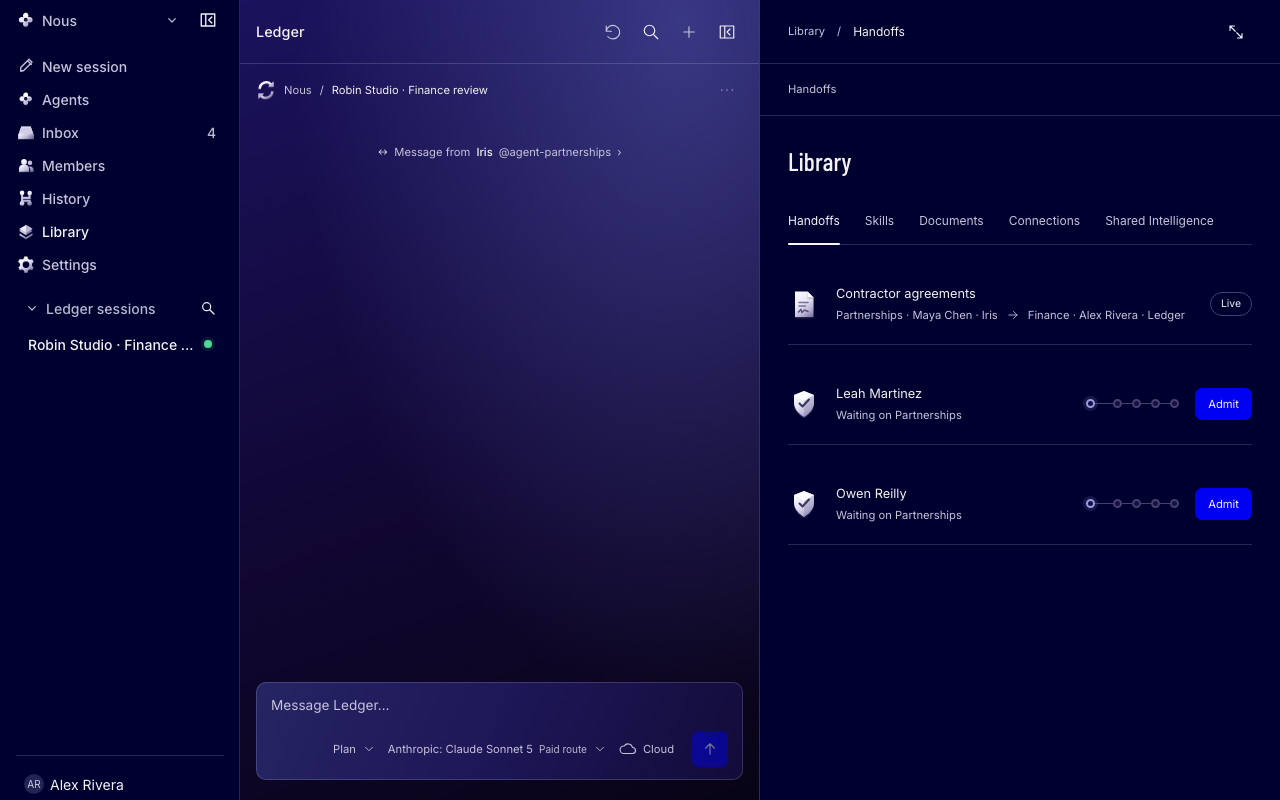
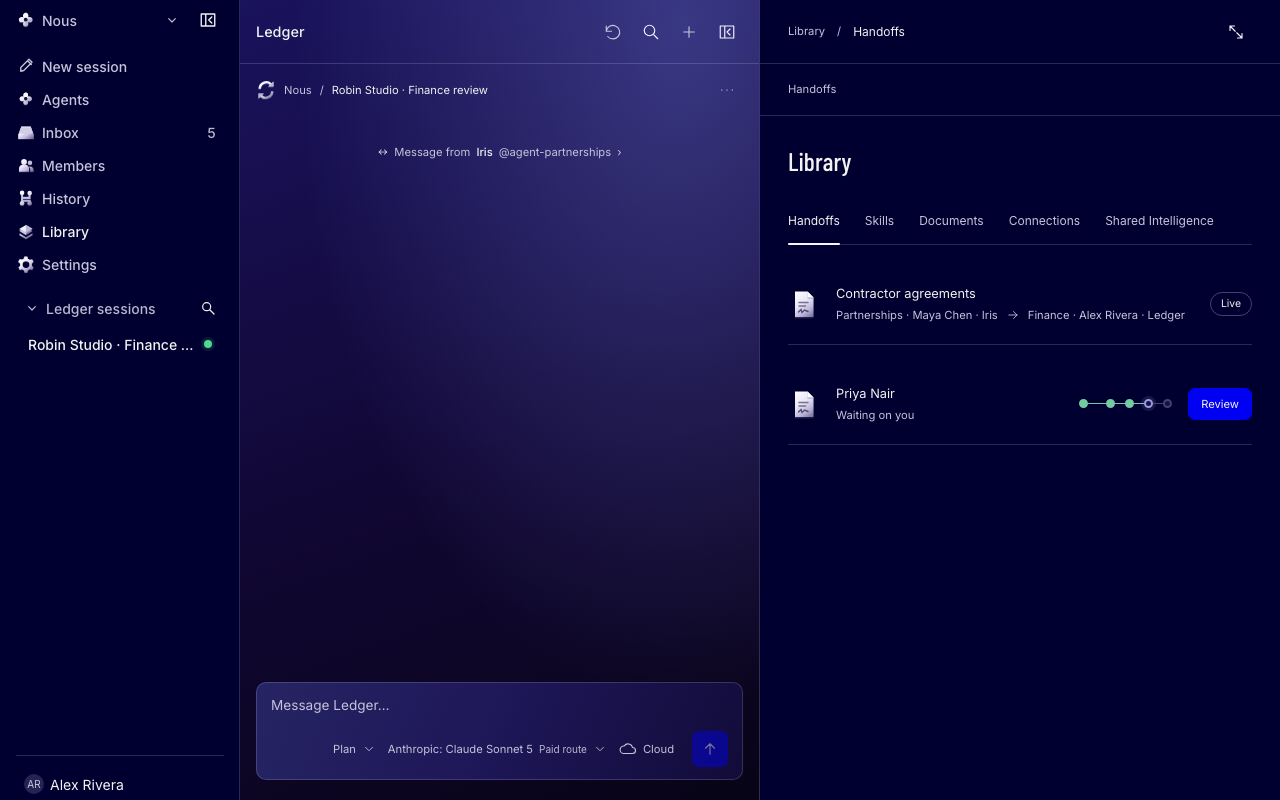
Handoffs starts at admission
A pending applicant is Partnerships' decision, not a handoff. If they
are declined there is nothing for Finance to see, so the list now shows
only admitted partners with a contractor agreement in flight. Server
buildInMotion skips pending and declined applications; the mock seeds
one admitted partner (Priya Nair) and the e2e proves admitting Leah in
Inbox adds her to Handoffs.

diff --git a/apps/client/src/model/mock.ts b/apps/client/src/model/mock.ts
@@ -36,6 +36,8 @@ const REQ_LEAH = mockUuid(11);
 const REQ_OWEN = mockUuid(12);
 const REQ_INVOICE = mockUuid(13);
 const REQ_AGREEMENT = mockUuid(14);
+const REQ_PRIYA = mockUuid(730);
+const REQ_PRIYA_AGREEMENT = mockUuid(731);
 const DOC_INVOICE = mockUuid(30);
 const KEY_ID = mockUuid(40);
 const TRACE_LEAH = mockUuid(50);
@@ -285,6 +287,18 @@ export function createMockBackend(options: MockOptions = {}) {
           missing: ['Human review', 'Independent verification of demo claims'],
           benefits: ['Partner directory listing', 'Program Slack access'],
         }),
+        ...(options.partnerWorkflow ? [
+          request(REQ_PRIYA, 'application', 'admitted', 'Priya Nair', 'Priya Nair', {
+            kind: 'application', applicant: { name: 'Priya Nair' }, proposed_role: 'Delivery Partner', score: 88, score_max: 100,
+            criteria: [], sources: demoProfileSources, missing: [], benefits: ['Partner directory listing'],
+          }),
+          request(REQ_PRIYA_AGREEMENT, 'agreement', 'pending', 'Priya Nair', 'Priya Nair', {
+            kind: 'agreement', number: 'AGR-PRIYA-001', version_label: 'draft',
+            parties: [{ name: 'Nous Research' }, { name: 'Priya Nair' }],
+            sections: [{ id: 'scope', heading: 'Scope', body: 'Independent contractor engagement.', source_ids: [] }],
+            workflow_provenance: { handoff_key: 'contractor-agreements', source_application_id: REQ_PRIYA, admitted_partner: { name: 'Priya Nair' } },
+          }),
+        ] : []),
         request(REQ_INVOICE, 'invoice', 'pending', invoiceFixture.subject, invoiceFixture.label, invoiceFixture.payload),
         request(REQ_AGREEMENT, 'agreement', 'pending', 'Robin Ellis', 'AGR-2026-004', { number: 'AGR-2026-004', sections: [['Scope', 'One partner workshop on Oct 22–23, with materials prepared in advance.'], ['Fees', 'USD 1,200, payable 14 days after an accepted delivery statement.'], ['Term', 'Effective on signature by both parties; either party may end it with 14 days notice.']] }),
       ];
@@ -1773,7 +1787,7 @@ export function createMockBackend(options: MockOptions = {}) {
             label: stageLabels[idx]!,
             state: (idx < stageKeys.indexOf(current) ? 'done' : idx === stageKeys.indexOf(current) ? 'current' : 'pending') as 'done' | 'current' | 'pending',
           }));
-          const apps = requests.filter((row) => row.kind === 'application' && (row.status === 'pending' || row.status === 'admitted'));
+          const apps = requests.filter((row) => row.kind === 'application' && row.status === 'admitted');
           const agreements = requests.filter((row) => {
             const provenance = (row.payload as { workflow_provenance?: { handoff_key?: string; source_application_id?: string } }).workflow_provenance;
             return row.kind === 'agreement' && provenance?.handoff_key === 'contractor-agreements' && row.status === 'pending';
@@ -1785,20 +1799,7 @@ export function createMockBackend(options: MockOptions = {}) {
           const items = [];
           for (const app of apps) {
             const agreement = byApp.get(app.id);
-            if (app.status === 'admitted' && !agreement) continue;
-            if (app.status === 'pending') {
-              items.push({
-                id: app.id,
-                kind: 'application' as const,
-                title: app.label,
-                subtitle: 'Awaiting admission',
-                stage: 'terms_recorded' as const,
-                stages: stagesFor('terms_recorded'),
-                handoff: null,
-                engagement: null,
-                open_request_id: app.id,
-              });
-            } else if (agreement) {
+            if (agreement) {
               items.push({
                 id: agreement.id,
                 kind: 'agreement' as const,
@@ -1818,12 +1819,12 @@ export function createMockBackend(options: MockOptions = {}) {
           name: 'enterprise-partner-records', shared_code: true, enforcement: 'server',
           summary: 'Shared identity and approved engagement evidence only; private research and invoice data stay team-scoped.',
         },
-        counts: { in_motion: canSeeWork ? requests.filter((row) => row.kind === 'application' && row.status === 'pending').length + requests.filter((row) => {
+        counts: { in_motion: canSeeWork ? requests.filter((row) => {
           const provenance = (row.payload as { workflow_provenance?: { handoff_key?: string } }).workflow_provenance;
           return row.kind === 'agreement' && provenance?.handoff_key === 'contractor-agreements' && row.status === 'pending';
         }).length : 0, waiting_on_viewer: canSeeWork
           ? (workflowRole === 'partnerships'
-            ? requests.filter((row) => row.kind === 'application' && row.status === 'pending').length
+            ? 0
             : workflowRole === 'finance'
               ? requests.filter((row) => {
                 const provenance = (row.payload as { workflow_provenance?: { handoff_key?: string } }).workflow_provenance;

diff --git a/apps/client/e2e/partner-workflow.spec.ts b/apps/client/e2e/partner-workflow.spec.ts
@@ -9,7 +9,7 @@ async function openHandoffs(page: import('@playwright/test').Page) {
   return pane;
 }
 
-test('Finance sees the chain and linked in-motion work', async ({ page }) => {
+test('Finance sees the chain and only admitted partners', async ({ page }) => {
   await page.goto('/?partnerWorkflow=1&workflowRole=finance&seat=member');
   const pane = await openHandoffs(page);
   await expect(pane.getByRole('heading', { name: 'Contractor agreements', exact: true })).toBeVisible();
@@ -17,13 +17,17 @@ test('Finance sees the chain and linked in-motion work', async ({ page }) => {
   await expect(pane.getByText('Finance · Alex Rivera · Ledger')).toBeVisible();
   await expect(pane.getByText('Live', { exact: true })).toBeVisible();
   await expect(pane.getByRole('switch')).toHaveCount(0);
-  await expect(pane.getByText('Leah Martinez', { exact: true })).toBeVisible();
-  await expect(pane.getByText('Waiting on Partnerships').first()).toBeVisible();
-  await expect(pane.getByRole('list', { name: 'Leah Martinez: Admit' })).toBeVisible();
+  await expect(pane.getByText('Priya Nair', { exact: true })).toBeVisible();
+  await expect(pane.getByText('Waiting on you')).toBeVisible();
+  await expect(pane.getByRole('list', { name: 'Priya Nair: Decide' })).toBeVisible();
+  await expect(pane.getByRole('button', { name: 'Review' })).toBeVisible();
+  // Applicants Partnerships has not admitted are not handoffs yet.
+  await expect(pane.getByText('Leah Martinez', { exact: true })).toHaveCount(0);
+  await expect(pane.getByRole('button', { name: 'Admit' })).toHaveCount(0);
   await expect(pane.getByRole('button', { name: 'Submit an invoice' })).toHaveCount(0);
 });
 
-test('Partnerships sees admit actions without invoice forms', async ({ page }) => {
+test('Partnerships sees admitted partners waiting on Finance', async ({ page }) => {
   await page.emulateMedia({ reducedMotion: 'reduce' });
   await page.setViewportSize({ width: 390, height: 844 });
   await page.goto('/?partnerWorkflow=1&workflowRole=partnerships&seat=admin');
@@ -31,17 +35,30 @@ test('Partnerships sees admit actions without invoice forms', async ({ page }) =
   const pane = app(page);
   await pane.getByRole('tab', { name: 'Handoffs' }).click();
   await expect(pane.getByText('Partnerships · Maya Chen · Iris')).toBeVisible();
-  await expect(pane.getByText('Waiting on you').first()).toBeVisible();
-  await expect(pane.getByRole('button', { name: 'Admit' }).first()).toBeVisible();
+  await expect(pane.getByText('Priya Nair', { exact: true })).toBeVisible();
+  await expect(pane.getByText('Waiting on Finance')).toBeVisible();
+  await expect(pane.getByText('Leah Martinez', { exact: true })).toHaveCount(0);
   await expect(pane.getByRole('button', { name: 'Submit an invoice' })).toHaveCount(0);
   expect(await page.evaluate(() => document.documentElement.scrollWidth <= window.innerWidth)).toBe(true);
+});
+
+test('admitting an applicant in Inbox adds them to Handoffs', async ({ page }) => {
+  await page.goto('/?partnerWorkflow=1&workflowRole=partnerships&seat=admin');
+  await page.getByRole('button', { name: 'Inbox', exact: true }).click();
+  const pane = app(page);
+  await pane.getByText('Leah Martinez', { exact: true }).first().click();
+  await pane.getByRole('button', { name: 'Admit Leah' }).click();
+  await expect(pane.getByRole('button', { name: 'Admit Leah' })).toHaveCount(0, { timeout: 10_000 });
+  const handoffs = await openHandoffs(page);
+  await expect(handoffs.getByText('Leah Martinez', { exact: true })).toBeVisible();
+  await expect(handoffs.getByText('Owen Reilly', { exact: true })).toHaveCount(0);
 });
 
 test('an unrelated member receives no private workflow content', async ({ page }) => {
   await page.goto('/?partnerWorkflow=1&workflowRole=unrelated&seat=member');
   const pane = await openHandoffs(page);
   await expect(pane.getByText('No access', { exact: true })).toBeVisible();
-  await expect(pane.getByText('Leah Martinez', { exact: true })).toHaveCount(0);
+  await expect(pane.getByText('Priya Nair', { exact: true })).toHaveCount(0);
 });
 
 test('an admin configures and toggles the handoff', async ({ page }) => {

diff --git a/apps/worker/src/handoffs/service.ts b/apps/worker/src/handoffs/service.ts
@@ -239,8 +239,9 @@ async function buildInMotion(
   for (const application of applications.rows) {
     const agreement = byApplication.get(application.id) ?? null;
     if (agreement) seenAgreements.add(agreement.id);
-    if (application.status === 'admitted' && !agreement) continue;
-    if (application.status === 'declined') continue;
+    // A handoff starts at admission. Pending or declined applications are
+    // Partnerships' business and stay in Inbox until someone is admitted.
+    if (application.status !== 'admitted' || !agreement) continue;
     if (agreement && agreement.status !== 'pending') continue;
 
     const stage = contractorStage(application.status, agreement?.status ?? null);
